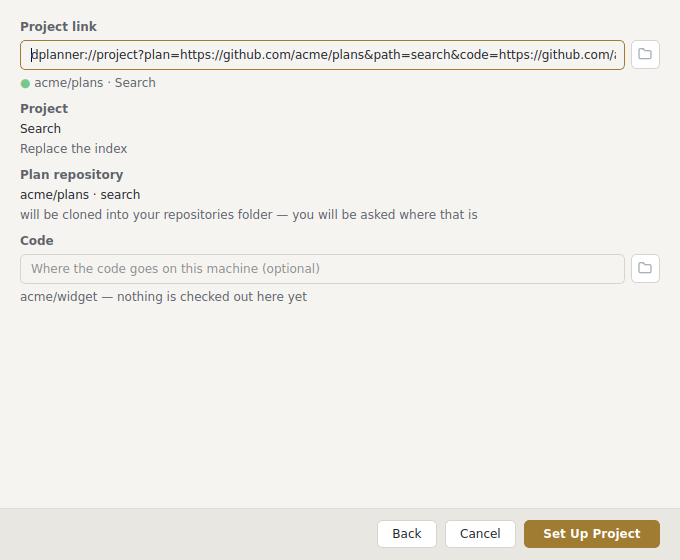
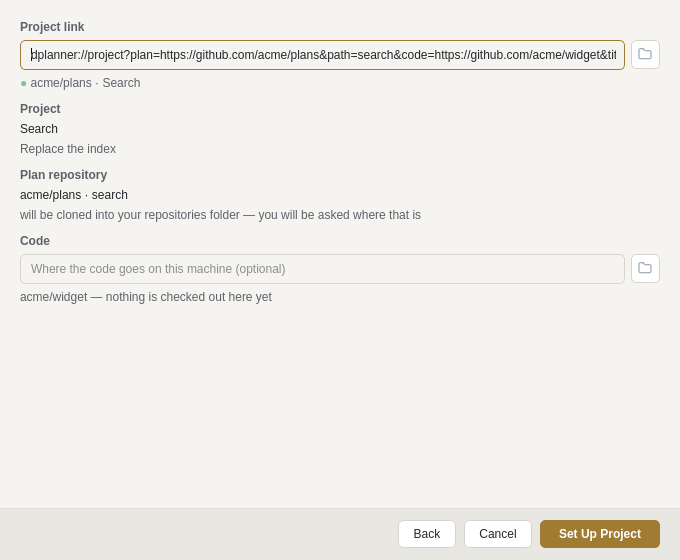
Open Project keeps one size from page to page
The wizard resized itself per page — the chooser at 560×260, the link and browse pages
at 680×560 — and on Hyprland the page after the chooser drew clipped, its footer outside
the window, until focus moved. On Wayland the compositor owns a window's geometry, so a
shown window's resize waits for its next configure while Qt has already laid the page out
at the new size. X11, Windows, macOS and offscreen apply it at once, which is why the
renders never showed it.

The wizard now opens at 680×560 and keeps it; the chooser's two rows sit at the top of
that room. shell-ui.md gains the rule — a dialog on screen never resizes itself — and
ARCHITECTURE.md the reasoning. The three Open Project renders are regenerated.

diff --git a/src/dplanner/modules/projects/open_dialog.py b/src/dplanner/modules/projects/open_dialog.py
@@ -22,8 +22,10 @@ from pathlib import Path
 
 from PySide6.QtCore import Qt
 from PySide6.QtWidgets import (
+    QAbstractScrollArea,
     QListWidget,
     QListWidgetItem,
+    QSizePolicy,
     QStackedWidget,
     QVBoxLayout,
     QWidget,
@@ -40,10 +42,9 @@ from dplanner.modules.projects.link_page import LinkPage
 from dplanner.modules.projects.repos import MODULE_ID, Joined, RepositoryServices
 from dplanner.theme.tokens import CAPTION_GAP
 
+# One size for every page: a dialog on screen never resizes itself (shell-ui.md), so the
+# chooser's two rows sit at the top of the room the other pages need.
 DIALOG_SIZE = (680, 560)
-# The chooser holds two rows and a caption, so it is sized for two rows and a caption: one
-# shape for all three pages would open a wizard on a window four-fifths empty.
-CHOOSE_SIZE = (560, 260)
 WAY_KEY = "open_project_way"
 LINK, BROWSE = "link", "browse"
 WAY_ROLE = int(Qt.ItemDataRole.UserRole) + 10
@@ -100,7 +101,10 @@ class OpenProjectDialog(DialogFrame):
             item.setData(WAY_ROLE, way)
             self.ways.addItem(item)
         self.ways.itemActivated.connect(lambda _item: self._advance())
-        chooser.addWidget(self.ways, 1)
+        self.ways.setSizeAdjustPolicy(QAbstractScrollArea.SizeAdjustPolicy.AdjustToContents)
+        self.ways.setSizePolicy(QSizePolicy.Policy.Preferred, QSizePolicy.Policy.Maximum)
+        chooser.addWidget(self.ways)
+        chooser.addStretch(1)
         remembered = str(get_global(MODULE_ID, WAY_KEY, LINK))
         self.ways.setCurrentRow(
             next((row for row, (way, _l, _d) in enumerate(WAYS) if way == remembered), 0)
@@ -174,9 +178,8 @@ class OpenProjectDialog(DialogFrame):
         self.show_page(CHOOSE)
 
     def show_page(self, page: int) -> None:
-        """Show one of the three pages, and re-read the footer and the size from it."""
+        """Show one of the three pages, and re-read the footer from it."""
         self.pages.setCurrentIndex(page)
-        self.resize(*(CHOOSE_SIZE if page == CHOOSE else DIALOG_SIZE))
         self.back_button.setVisible(page != CHOOSE)
         if page == LINK_PAGE:
             self.link.link_edit.setFocus()  # The one page that opens on something to type.

diff --git a/scripts/render_dialogs.py b/scripts/render_dialogs.py
@@ -51,7 +51,6 @@ from dplanner.modules.library_watch.view import ConflictDialog
 from dplanner.modules.projects.move_dialog import MovePlanDialog
 from dplanner.modules.projects.open_dialog import (
     BROWSE_PAGE,
-    CHOOSE_SIZE,
     LINK_PAGE,
     OpenProjectDialog,
 )
@@ -586,7 +585,7 @@ def render_session(app: QApplication, theme: Theme, out: Path, home: Path) -> No
         parent=services.window,
     )
     inline(opening.browse._runner, opening.link._runner)
-    framed(opening, CHOOSE_SIZE, app)  # The wizard sizes itself per page; this is page one's.
+    framed(opening, OPEN_SIZE, app)
     save(opening, out, "open-project-ways", theme, app)
     opening.show_page(LINK_PAGE)
     opening.link.set_text(
@@ -600,11 +599,9 @@ def render_session(app: QApplication, theme: Theme, out: Path, home: Path) -> No
             )
         )
     )
-    opening.resize(*OPEN_SIZE)
     settle(app)
     save(opening, out, "open-project-link", theme, app)
     opening.show_page(BROWSE_PAGE)
-    opening.resize(*OPEN_SIZE)
     opening.browse.picker.set_current(plans)
     save(opening, out, "open-project-browse", theme, app)
     discard(opening)

diff --git a/tests/modules/test_open_projects.py b/tests/modules/test_open_projects.py
@@ -246,6 +246,17 @@ def test_continuing_shows_the_page_for_the_chosen_way_and_back_returns(services,
     dialog.deleteLater()
 
 
+def test_the_wizard_keeps_one_size_from_page_to_page(services, monkeypatch):
+    """A Wayland compositor applies a shown window's resize at its next configure, so a
+    wizard that resized per page drew each page clipped until focus moved."""
+    dialog = wizard(services, monkeypatch)
+    size = dialog.size()
+    for page in (LINK_PAGE, BROWSE_PAGE, CHOOSE):
+        dialog.show_page(page)
+        assert dialog.size() == size
+    dialog.deleteLater()
+
+
 def test_the_way_last_used_is_the_one_the_next_wizard_opens_on(services, monkeypatch):
     first = wizard(services, monkeypatch)
     first.ways.setCurrentRow(1)

diff --git a/docs/screenshots/s16-dialogs/README.md b/docs/screenshots/s16-dialogs/README.md
@@ -13,7 +13,7 @@ temporary directory, so no path or preference of the rendering machine reaches a
 | `project-settings-*` | The Project dialog with Close alone, every edit live; both repositories apart, their logs side by side. |
 | `project-colocated-*` | A plan still inside its code: the warning, and the plan column's empty state carrying *Set up a plan repository…* as its verb. |
 | `project-create-*` | New Project: the plan repository, the folder, the code repository and its checkout as captioned blocks, and *Create* refused in words — a project already exists at that folder. |
-| `open-project-ways-*` | Open Project, page one: the two ways in as a captioned list, sized to its two rows rather than to the pages behind it; *Continue* the primary. |
+| `open-project-ways-*` | Open Project, page one: the two ways in as a captioned list of two rows, in the room the later pages need — the wizard never resizes on screen; *Continue* the primary. |
 | `open-project-link-*` | The link page: what the link names, where the plan will be cloned, and where the code should go — each under its caption, *Back* beside Cancel. |
 | `open-project-browse-*` | The browse page: the plan repository under its caption, the projects it holds with who worked on each, and the primary worded with the count. |
 | `share-project-*` | Share Project: what the link sets up and what it does not grant, the link itself, and the same link as a QR code — dark on light whatever the theme, because a camera reads it. *Copy Link* the primary, *Save File…* quiet beside Close. |

diff --git a/ARCHITECTURE.md b/ARCHITECTURE.md
@@ -1168,6 +1168,16 @@ any rule that names its widget, so `QPushButton#PrimaryButton` still wins and a 
 restyled as the primary takes the accent. `GlyphButton` is quiet already, for a verb whose
 glyph has to follow the theme on a page that outlives it.
 
+**A dialog on screen never resizes itself.** The Open Project wizard first sized itself
+per page — two rows for the chooser, room for a list after it — and on Hyprland the page
+after the chooser drew clipped, its footer outside the window, until focus moved. On
+Wayland the compositor owns a window's geometry: a client's resize of a shown window is a
+request it takes up at its next configure, so Qt lays the new page out at the new size
+while the surface stays at the old one. X11, Windows, macOS and the offscreen renders all
+apply the resize at once, which is why nothing but a real session showed it. So a dialog's
+size is `DialogFrame`'s `size=` and nothing later, and a wizard's pages share one — a short
+page sits at the top of the room its longer siblings need.
+
 ## A roster has three shapes: a table sets values in the row, a list stays a list, a well keeps its widgets
 
 `.claude/rules/shell-ui.md` has the rule; this is why. The tables-and-browsers pass (S15) took the last

diff --git a/.claude/rules/shell-ui.md b/.claude/rules/shell-ui.md
@@ -32,6 +32,8 @@ paths:
   table's row height is computed from the font and set on the vertical header, never a
   pixel token; an empty page swaps through `EmptyState.stands_in_for`; a refused primary
   is `refuse(reason)` — disabled, its name kept, the reason in the footer's status slot.
+  **A dialog on screen never resizes itself**: its size is set once, before it shows, and
+  a wizard's pages share it (`modules/projects/open_dialog.py`).
   **A settings page owns no outer margin**: `settings_page()` builds it, `block()` stacks
   its captioned fields, and the dialog insets it from its seam and scrolls it. **What a
   gesture came to after its dialog closed is a `notice()`**, never a `QMessageBox`; a state
